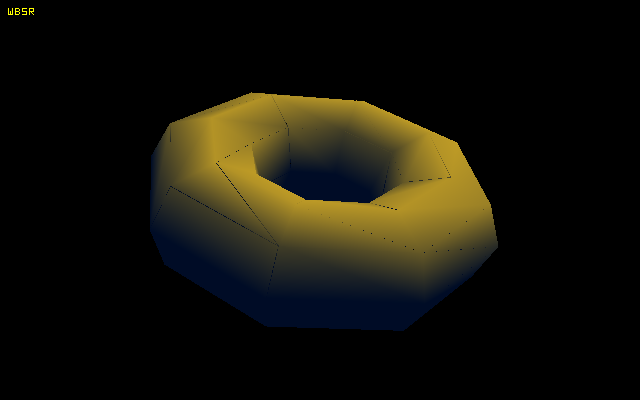
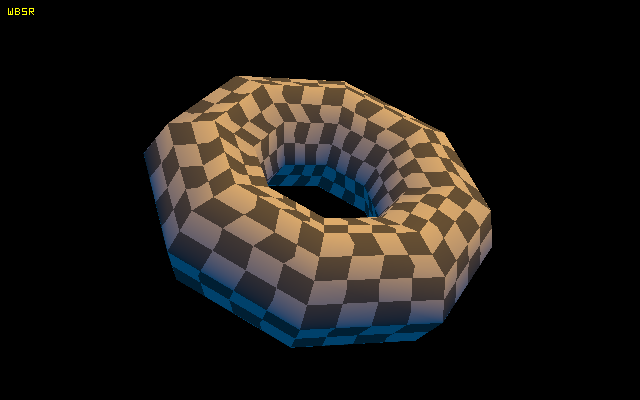
correct edges + texturing!

Changed region(s): [[0.2188, 0.18, 0.7812, 0.87]]

diff --git a/wbsr/main.cpp b/wbsr/main.cpp
@@ -5,6 +5,7 @@ using namespace agt;
 struct vertex {
 	vec4 pos;
 	vec3 col;
+	vec2 tex;
 };
 
 
@@ -115,16 +116,16 @@ void generate_sphere(float radius, uint slice_count, uint stack_count, function<
 	}
 }
 
-void draw(const vector<vertex>& vertices, const vector<uint32>& indices, texture2d& target, float* depth) {
+void draw(const vector<vertex>& vertices, const vector<uint32>& indices, texture<vec3,vec2>& tex, texture2d& target, float* depth) {
 	for (int i = 0; i < indices.size(); i += 3) {
 		auto& v0 = vertices[indices[i]];
 		auto& v1 = vertices[indices[i+1]];
 		auto& v2 = vertices[indices[i+2]];
 
-		auto min_x = glm::min(v0.pos.x, glm::min(v1.pos.x, v2.pos.x));
-		auto min_y = glm::min(v0.pos.y, glm::min(v1.pos.y, v2.pos.y));
-		auto max_x = glm::max(v0.pos.x, glm::max(v1.pos.x, v2.pos.x));
-		auto max_y = glm::max(v0.pos.y, glm::max(v1.pos.y, v2.pos.y));
+		auto min_x = floor(glm::min(v0.pos.x, glm::min(v1.pos.x, v2.pos.x)));
+		auto min_y = floor(glm::min(v0.pos.y, glm::min(v1.pos.y, v2.pos.y)));
+		auto max_x = ceil(glm::max(v0.pos.x, glm::max(v1.pos.x, v2.pos.x)));
+		auto max_y = ceil(glm::max(v0.pos.y, glm::max(v1.pos.y, v2.pos.y)));
 		vec3 gab = vec3(
 			v0.pos.x*v1.pos.y - v1.pos.x*v0.pos.y,
 			v1.pos.x*v2.pos.y - v2.pos.x*v1.pos.y,
@@ -141,6 +142,7 @@ void draw(const vector<vertex>& vertices, const vector<uint32>& indices, texture
 		float g0d = dgab_dx.x * v2.pos.x + dgab_dy.x * v2.pos.y + gab.x;
 		float a0d = dgab_dx.y * v0.pos.x + dgab_dy.y * v0.pos.y + gab.y;
 		float b0d = dgab_dx.z * v1.pos.x + dgab_dy.z * v1.pos.y + gab.z;
+		vec3 det = vec3(g0d, a0d, b0d) * (-dgab_dx + -dgab_dy + gab);
 		gab /= vec3(g0d, a0d, b0d);
 		dgab_dx /= vec3(g0d, a0d, b0d);
 		dgab_dy /= vec3(g0d, a0d, b0d);
@@ -148,11 +150,15 @@ void draw(const vector<vertex>& vertices, const vector<uint32>& indices, texture
 		for (size_t y = min_y; y < max_y; ++y) {
 			vec3 start_gab = gab;
 			for (size_t x = min_x; x < max_x; ++x) {
-				if (gab.x > 0 && gab.y > 0 && gab.z > 0) {
-					float z = gab.y * v0.pos.z + gab.z * v1.pos.z + gab.x * v2.pos.z;
-					if (z < depth[x + y * target.size.x]) {
-						target.pixel(uvec2(x, y)) = gab.y * v0.col + gab.z * v1.col + gab.x * v2.col;
-						depth[x + y * target.size.x] = z;
+				if (gab.x >= 0 && gab.y >= 0 && gab.z >= 0) {
+					if ((gab.x > 0 || det.x > 0) && (gab.y > 0 || det.y > 0) && (gab.z > 0 || det.z > 0)) {
+						float z = gab.y * v0.pos.z + gab.z * v1.pos.z + gab.x * v2.pos.z;
+						if (z < depth[x + y * target.size.x]) {
+							vec2 uv = gab.y * v0.tex + gab.z * v1.tex + gab.x * v2.tex;
+							vec3 col = gab.y * v0.col + gab.z * v1.col + gab.x * v2.col;
+							target.pixel(uvec2(x, y)) = pow(col * tex.texel(uv), vec3(0.4545));
+							depth[x + y * target.size.x] = z;
+						}
 					}
 				}
 				gab += dgab_dx;
@@ -170,8 +176,8 @@ void transform(vector<vertex>& vtc, mat4 transform) {
 }
 
 int main() {
-	texture2d tex{ uvec2(640, 400) };
-	vector<float> depth(tex.size.x*tex.size.y, 1e9);
+	texture2d buf{ uvec2(640, 400) };
+	vector<float> depth(buf.size.x*buf.size.y, 1e9);
 
 	auto vtc = vector<vertex>{
 		/*{vec4(0.f, 0.f, 0.f, 1.f), vec3(1.f, 0.f, 0.f)},
@@ -186,11 +192,13 @@ int main() {
 
 	const vec3 L = normalize(vec3(0.5f, 1.f, -0.2f));
 
-	generate_torus(vec2(1.f, 0.5f), 8, [&vtc, L](vec3 p, vec3 n, vec3, vec2) {
-		vtc.push_back(vertex{ vec4(p, 1.f), vec3(0.8f, 0.6f, 0.f)*glm::max(0.f, dot(n, L))+vec3(0.f, 0.05f, 0.15f) });
+	generate_torus(vec2(1.f, 0.5f), 8, [&vtc, L](vec3 p, vec3 n, vec3, vec2 texcoord) {
+		vtc.push_back(vertex{ vec4(p, 1.f), vec3(0.8f, 0.4f, 0.f)*glm::max(0.f, dot(n, L))+vec3(0.f, 0.05f, 0.15f), texcoord });
 	}, [&ixd](size_t i) {
 		ixd.push_back(i);
 	});
+
+	checkerboard_texture tex{ vec3(0.2f), vec3(1.f), 16.f };
 
 	// screen space = [0,0,0] .. [640, 400, 1]
 	// - projection matrix -
@@ -200,15 +208,15 @@ int main() {
 	// - world matrix -
 	// model space
 
-	mat4 W = rotate(mat4(1), pi<float>() / 4.f, vec3(1.f, 1.f, 0.f));
+	mat4 W = rotate(mat4(1), pi<float>() / 3.f, vec3(1.f, 1.f, 0.f));
 	mat4 V = lookAt(vec3(0.f, 0.f, 8.f), vec3(0.f), vec3(0.f, 1.f, 0.f));
 	mat4 P = perspectiveFov(pi<float>() / 4.f, 640.f, 400.f, 0.01f, 100.f);
 	mat4 Wn = scale(translate(mat4(1), vec3(320.f, 200.f, 0.f)), vec3(640.f, -400.f, 1.f));
 	transform(vtc, Wn*P*V*W);//rotate(translate(mat4(1), vec3(320.f, 200.f, 0.f)), 1.f, vec3(0.f, 0.f, 1.f)));
 
-	draw(vtc, ixd, tex, depth.data());
+	draw(vtc, ixd, tex, buf, depth.data());
 
-	tex.draw_text("wbsr", uvec2(8, 8), vec3(1.f, 1.f, 0.f));
+	buf.draw_text("wbsr", uvec2(8, 8), vec3(1.f, 1.f, 0.f));
 	ostringstream filename; filename << "rndr" << time(nullptr) << ".bmp";
-	tex.write_bmp(filename.str());
+	buf.write_bmp(filename.str());
 }

diff --git a/wbsr/texture.h b/wbsr/texture.h
@@ -17,6 +17,33 @@ namespace agt {
 		virtual ~texture() {}
 	};
 
+
+	struct checkerboard_texture : public texture<vec3, vec2> {
+		vec3 colors[2];
+		float scale;
+
+		checkerboard_texture(vec3 cA, vec3 cB, float scl) : scale(scl) {
+			colors[0] = cA; colors[1] = cB;
+		}
+
+		vec3 texel(vec2 uv) const override {
+			uv = floor(uv*scale);
+			return colors[(size_t)mod(uv.x + uv.y, 2.f)];
+		}
+	};
+
+	struct grid_texture : public texture<vec3, vec2> {
+		vec3 bg_color, fg_color;
+		float scale, line_size;
+
+		grid_texture(vec3 fg, vec3 bg, float s, float ls) : scale(s), line_size(ls), bg_color(bg), fg_color(fg) {}
+
+		vec3 texel(vec2 uv) const override {
+			uv = step(fract(uv*scale), vec2(line_size));
+			return mix(bg_color, fg_color, glm::max(uv.x, uv.y));
+		}
+	};
+
 	/*
 		a 2D texture class backed by a pixel array
 
